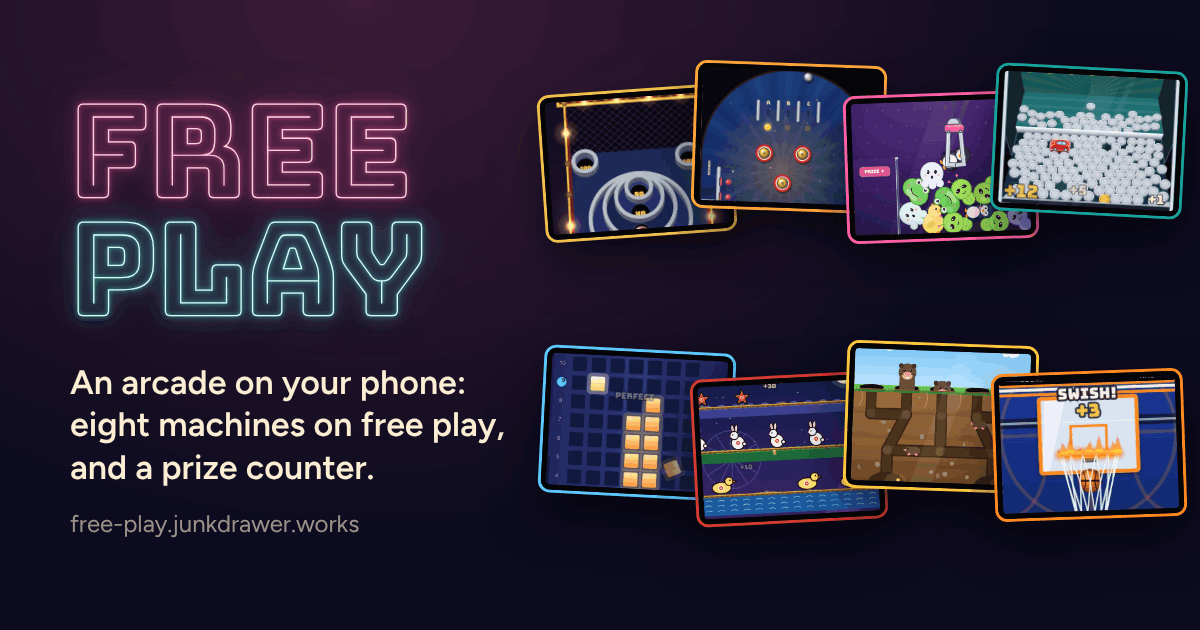
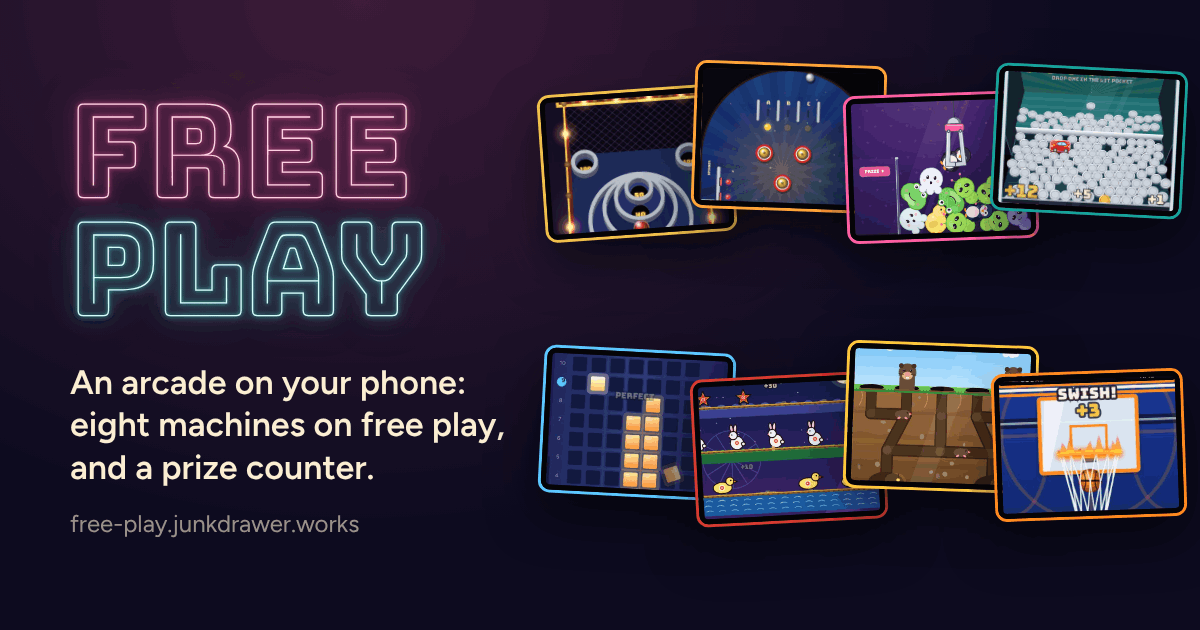
Topple and Clutch: the small things say so, and the chute keeps off the sign
Topple: a prize pushed off the side got a toast but no sound, a new
prize went on the shelf with no sound or word, and a prize won mid-cup
left no trace on the cup's card. A prize down the side now gets a lower,
heavier thud than a coin's; the attendant's new prize a small bell and a
line read out; and the cup keeps what it won (a new field on the saved
cup, read as none from an older save), so its card says "And a toy car
for your shelf." under the heading, with the prize. The chute rode over
the back wall's "DROP ONE IN THE LIT POCKET" at most aims, so the sign
now sits under the pockets. Clutch: a go that caught nothing, with
nothing slipping, now says "Nothing that time." and plays a quiet
falling two-note; the line read out is cleared first, so a second "It
slipped." is read again; and three plush at once say three. Nothing
here changes what a machine pays or how hard it is. The browser tests
check the card's prize, the saved cup, the sign clear of the chute at
every aim, and Clutch's empty go, repeated words and three at once.
Topple's pictures and the link preview are redrawn for the sign.

Claude-Session: https://claude.ai/code/session_01RkvUFhzoaPZyofz3pSrJ5i

diff --git a/topple/js/app.js b/topple/js/app.js
@@ -26,8 +26,10 @@ function load() {
   let s = null;
   try { s = JSON.parse(localStorage.getItem(KEY)); } catch { /* none yet, or storage is off */ }
   s = s && typeof s === 'object' ? s : {};
-  // a cup still being played, or one whose last coin went down just before leaving (finished when it comes back)
-  const cup = s.cup && Number.isInteger(s.cup.left) && s.cup.left >= 0 && s.cup.left <= CUP ? { left: s.cup.left, won: Math.max(0, Math.floor(s.cup.won) || 0) } : null;
+  // a cup still being played, or one whose last coin went down just before leaving (finished when it comes back), with
+  // the prizes it's pushed off (a cup saved before it kept them has none)
+  const prizes = Array.isArray(s.cup?.prizes) ? s.cup.prizes.filter(k => TRINKETS.some(t => t.kind === k)) : [];
+  const cup = s.cup && Number.isInteger(s.cup.left) && s.cup.left >= 0 && s.cup.left <= CUP ? { left: s.cup.left, won: Math.max(0, Math.floor(s.cup.won) || 0), prizes } : null;
   s = { best: 0, cups: 0, sound: true, ...s, cup };
   for (const k of ['best', 'cups', 'prizes']) if (k in s) s[k] = Number.isFinite(+s[k]) ? +s[k] : 0; // a hand-edited or broken number
   return s;
@@ -77,9 +79,9 @@ layout();
 if (document.fonts) Promise.all([document.fonts.load('400 20px Bungee'), document.fonts.load('600 15px Figtree')]).then(() => draw.repaint()).catch(() => {});
 
 // ---------- the cup, and dropping coins ----------
-let cup = saved.cup;     // { left, won }: the coins still in it and the tickets this cup has won, or null between cups
+let cup = saved.cup;     // { left, won, prizes }: the coins still in it, the tickets and the prizes (kinds) this cup has won, or null between cups
 // The cup just finished, while its card is up: coins that still go over count for it, on the card and towards the
-// best cup, until Another cup. { won, before: the best cup before it, first: whether it was the first cup }
+// best cup, until Another cup. { won, prizes, before: the best cup before it, first: whether it was the first cup }
 let done = null;
 let aim = DECK.W / 2;    // where the chute is, mm across
 let paused = false, timeScale = 1, lastDrop = 0, lastFall = 0, ended = false;
@@ -139,7 +141,7 @@ function happened() {
   for (const f of machine.takeFalls()) {
     lastFall = performance.now();
     if (f.edge === 'side') {
-      if (f.kind === 'prize') { toast(`The ${trinket(f.prize).name.toLowerCase()} went down the side. There'll be another one on in a moment.`); restockSoon(); }
+      if (f.kind === 'prize') { sound.gone(); toast(`The ${trinket(f.prize).name.toLowerCase()} went down the side. There'll be another one on in a moment.`); restockSoon(); }
       else sound.lost();
       continue;
     }
@@ -147,6 +149,9 @@ function happened() {
       const t = trinket(f.prize);
       wallet.give(t);
       saved.prizes = (saved.prizes || 0) + 1;
+      // the cup's card says so too (once it's up, a prize the pile still pushes over goes on it as well)
+      if (cup) cup.prizes.push(f.prize);
+      else if (done) { done.prizes.push(f.prize); showDone(); }
       sound.prize();
       toast(`You won ${t.say}! It's on your shelf.`);
       say(`You won ${t.say}.`);
@@ -170,7 +175,11 @@ function happened() {
 let restockTimer = 0;
 function restockSoon() {
   clearTimeout(restockTimer);
-  restockTimer = setTimeout(() => machine.restock(nextPrize()), 1500);
+  restockTimer = setTimeout(() => {
+    const had = machine.pieces.some(p => p.kind === 'prize');
+    machine.restock(nextPrize());
+    if (!had && machine.pieces.some(p => p.kind === 'prize')) { sound.restock(); say('Another prize is on the shelf.'); }
+  }, 1500);
 }
 
 function say(text) { $('live').textContent = text; }
@@ -188,7 +197,7 @@ let feeding = () => {};
 $('payout').innerHTML = PAYOUT;
 function endCup() {
   ended = true;
-  done = { won: cup.won, before: saved.best || 0, first: !saved.cups };
+  done = { won: cup.won, prizes: cup.prizes, before: saved.best || 0, first: !saved.cups };
   saved.cups = (saved.cups || 0) + 1;
   cup = null;
   showDone();
@@ -209,9 +218,27 @@ function showDone() {
   if (won > (saved.best || 0)) saved.best = won;
   save();
   $('overT').textContent = `${CUP} coins, ${fmt(won)} ${won === 1 ? 'ticket' : 'tickets'}`;
+  wonPrizes(done.prizes);
   bestLine($('overBest'), newBest() && ['A new best cup!', `The old one was ${fmt(before)} ${before === 1 ? 'ticket' : 'tickets'}.`], `Best cup: ${fmt(saved.best)} tickets`);
   hud();
 }
+// The prizes a cup pushed off, under its card's heading: 'And a toy car and a lucky keyring for your shelf.'
+const NUMBER = ['', 'a', 'two', 'three', 'four', 'five', 'six'];
+const plural = name => name + (/(ch|sh|s|x)$/.test(name) ? 'es' : 's');
+function wonPrizes(kinds) {
+  const el = $('overPrize');
+  el.hidden = !kinds.length;
+  if (!kinds.length) return;
+  const counts = new Map();
+  for (const k of kinds) counts.set(k, (counts.get(k) || 0) + 1);
+  const said = [...counts].map(([k, n]) => (n === 1 ? trinket(k).say : `${NUMBER[n] || n} ${plural(trinket(k).name.toLowerCase())}`));
+  const list = said.length > 1 ? `${said.slice(0, -1).join(', ')} and ${said.at(-1)}` : said[0];
+  const pics = document.createElement('span');
+  pics.className = 'e'; pics.setAttribute('aria-hidden', 'true');
+  pics.textContent = kinds.map(k => trinket(k).emoji).join('');
+  el.replaceChildren(`And ${list} for your shelf.`, pics);
+}
+
 // A new best cup rings out once its tickets are out (or a late coin makes it one), and the sign's bulbs blaze: once a cup.
 function cheer() {
   if (!done || done.cheered || !newBest()) return;
@@ -241,7 +268,7 @@ function start() {
   $('over').hidden = true;
   feeding();
   done = null;
-  if (!cup) { cup = { left: CUP, won: 0 }; ended = false; }
+  if (!cup) { cup = { left: CUP, won: 0, prizes: [] }; ended = false; }
   hud();
   save();
 }

diff --git a/topple/js/draw.js b/topple/js/draw.js
@@ -8,6 +8,7 @@ import { DECK, PUSHER, COIN, CHUTE, POCKETS, PRIZE } from './machine.js';
 const WALL_TOP = 168;                         // how high the back and side walls go, mm
 const POCKET = { y: 96, r: 13 };              // the bonus pockets along the back wall
 const RAIL = 148;                             // the chute's rail
+const SIGN = POCKET.y - 33;                   // the back wall's sign, under the pockets (the chute rides over them)
 // The camera: above and in front of the machine, looking down at the middle of the deck.
 const EYE = { x: DECK.W / 2, y: 470, z: 480 }, AT = { y: 0, z: 118 };
 const F = (() => { const dy = AT.y - EYE.y, dz = AT.z - EYE.z, n = Math.hypot(dy, dz); return { y: dy / n, z: dz / n }; })();
@@ -123,13 +124,13 @@ export function createDraw(canvas) {
       c.beginPath(); c.moveTo(sun.x, sun.y); c.lineTo(sun.x + Math.cos(a0) * L, sun.y + Math.sin(a0) * L); c.lineTo(sun.x + Math.cos(a1) * L, sun.y + Math.sin(a1) * L); c.fill();
     }
     c.restore();
-    // the pockets, dark (their lights are lit each frame), and a label over them
+    // the pockets, dark (their lights are lit each frame), and a sign under them
     for (let i = 0; i < POCKETS; i++) {
       const p = at(((i + 0.5) / POCKETS) * DECK.W, POCKET.y, 0);
       c.fillStyle = C.chrome; c.beginPath(); c.ellipse(p.x, p.y, (POCKET.r + 3) * p.s, (POCKET.r + 3) * p.s, 0, 0, Math.PI * 2); c.fill();
       c.fillStyle = '#04090c'; c.beginPath(); c.ellipse(p.x, p.y, POCKET.r * p.s, POCKET.r * p.s, 0, 0, Math.PI * 2); c.fill();
     }
-    const lab = at(DECK.W / 2, POCKET.y + 26, 0);
+    const lab = at(DECK.W / 2, SIGN, 0);
     c.font = `400 ${11 * lab.s}px Bungee, Impact, sans-serif`; c.fillStyle = 'rgba(251, 238, 210, .55)';
     c.fillText('DROP ONE IN THE LIT POCKET', lab.x, lab.y);
     quad(c, [[0, RAIL - 3, 4], [DECK.W, RAIL - 3, 4], [DECK.W, RAIL + 3, 4], [0, RAIL + 3, 4]]);
@@ -320,5 +321,18 @@ export function createDraw(canvas) {
     for (let j = 0; j <= n; j++) { bulb(r.x + inset + j * step, r.y + inset - 1); bulb(r.x + inset + j * step, r.y + r.h - inset + 1); }
   }
 
-  return { resize, repaint, frame, cabinet, railX, at };
+  // Where the back wall's sign is, and the chute's carriage (with a coin in it) at an aim, on the page: for the tests.
+  function sign() {
+    const lab = at(DECK.W / 2, SIGN, 0);
+    ctx.font = `400 ${11 * lab.s}px Bungee, Impact, sans-serif`;
+    const w = ctx.measureText('DROP ONE IN THE LIT POCKET').width, h = 11 * lab.s;
+    return { x: lab.x - w / 2, y: lab.y - h / 2, w, h };
+  }
+  function chute(aim) {
+    const ch = at(aim, RAIL, 6), coin = at(aim, RAIL + 4 + COIN.r, 6);
+    const top = Math.min(ch.y - 9 * ch.s, coin.y);
+    return { x: ch.x - 17 * ch.s, y: top, w: 34 * ch.s, h: ch.y + 15 * ch.s - top };
+  }
+
+  return { resize, repaint, frame, cabinet, railX, at, sign, chute };
 }

diff --git a/clutch/js/app.js b/clutch/js/app.js
@@ -116,18 +116,26 @@ addEventListener('keyup', e => { if (HOLD_KEYS.includes(e.key)) release(); });
 
 // ---------- a go ----------
 let door = null, glow = 0;
+let go = null;           // the go under way, once the claw drops: { slipped }
 const wins = [];
 function happened() {
+  let ready = false;
   for (const e of machine.take()) {
     if (e === 'start') armed = false;
-    else if (e === 'drop') { aim = null; saved.goes++; save(); } // a go once the claw drops: a tap isn't one
+    else if (e === 'drop') { aim = null; saved.goes++; save(); go = { slipped: false }; } // a go once the claw drops: a tap isn't one
     else if (e === 'short') { aim = null; nudge(); }
     else if (e === 'close') sound.close();
     else if (e === 'release') sound.open();
-    else if (e === 'slip') { sound.slip(); say('It slipped.'); }
-    else if (e === 'ready' && wins.length) showWin();
+    else if (e === 'slip') { sound.slip(); say('It slipped.'); if (go) go.slipped = true; }
+    else if (e === 'ready') ready = true;
   }
   for (const w of machine.takeWon()) won(w);
+  // the claw's home: what came out of the door, or (nothing caught, nothing slipped) a word that nothing did
+  if (ready) {
+    if (wins.length) showWin();
+    else if (go && !go.slipped) { sound.nothing(); say('Nothing that time.'); }
+    go = null;
+  }
 }
 
 function won(w) {
@@ -162,7 +170,7 @@ function showWin() {
   $('winT').textContent = `You got ${names.length > 1 ? `${names.slice(0, -1).join(', ')} and ${names.at(-1)}` : names[0]}.`;
   $('winHow').textContent = got.some(w => w.kind === 'star')
     ? "The lucky star! They don't come along often. It's on your shelf now."
-    : got.length > 1 ? "Two at once! They're on your shelf now, with your prizes." : "It's on your shelf now, with your prizes.";
+    : got.length > 1 ? `${['', '', 'Two', 'Three', 'Four', 'Five'][got.length] || got.length} at once! They're on your shelf now, with your prizes.` : "It's on your shelf now, with your prizes.";
   const art = $('winArt'), r = Math.min(2, devicePixelRatio || 1);
   art.width = 220 * r; art.height = 170 * r;
   const c = art.getContext('2d');
@@ -182,7 +190,14 @@ function closeWin() {
 $('more').addEventListener('click', closeWin);
 $('winShelf').addEventListener('click', () => { closeWin(); openPrizes(); });
 
-function say(text) { $('live').textContent = text; }
+// What's read out: cleared first, and the words put back a moment later, so the same words again ('It slipped.') are
+// read again.
+let saying = 0;
+function say(text) {
+  $('live').textContent = '';
+  clearTimeout(saying);
+  saying = setTimeout(() => { $('live').textContent = text; }, 60);
+}
 
 // ---------- the scoreboard ----------
 function hud(bump = false) {

diff --git a/topple/css/topple.css b/topple/css/topple.css
@@ -132,6 +132,10 @@ svg { width: 1.3em; height: .9em; flex: none; }
 .lede { margin: 0 0 8px; font-weight: 600; text-wrap: balance; }
 .how { margin: 0 0 14px; font-size: 14px; color: var(--ink2); }
 .best { margin: 12px 0 0; font-size: 13px; color: var(--ink3); min-height: 1em; }
+/* the prizes a cup pushed off, under its card's heading */
+.won-prize { margin: -4px 0 10px; font-weight: 600; color: var(--ink); text-wrap: balance; }
+.won-prize[hidden] { display: none; }
+.won-prize .e { margin-left: 8px; font: 24px/1 "Apple Color Emoji", "Segoe UI Emoji", "Noto Color Emoji", sans-serif; vertical-align: -3px; letter-spacing: 2px; }
 .row { display: flex; gap: 10px; justify-content: center; flex-wrap: wrap; }
 .col { display: grid; gap: 8px; margin-bottom: 14px; }
 .big, .plain {

diff --git a/topple/js/sound.js b/topple/js/sound.js
@@ -133,6 +133,18 @@ export function lost() {
   if (!ac || !enabled) return;
   tone('sine', 420, 180, 0.05, 0.25);
 }
+// A prize down the side, card and all: a lower, heavier thud than a coin's.
+export function gone() {
+  if (!ac || !enabled) return;
+  tone('sine', 220, 70, 0.3, 0.32);
+  tone('triangle', 660, 330, 0.22, 0.2);
+  burst('bandpass', 1000, 1.2, 0.6, 0.05);
+}
+// The attendant putting a new prize on the shelf: a small bell.
+export function restock() {
+  if (!ac || !enabled) return;
+  bell(1568, 0, 0.065); bell(2093, 0.1, 0.05);
+}
 
 // The lights chasing along the pockets, and stopping on one.
 export function chase() {

diff --git a/clutch/js/sound.js b/clutch/js/sound.js
@@ -135,6 +135,12 @@ export function slip() {
   burst('lowpass', 500, 0.7, 0.25, 0.12, 0.32);
 }
 
+// A go that came back with nothing: a quiet falling two-note.
+export function nothing() {
+  if (!ac || !enabled) return;
+  tone('triangle', 659, 659, 0.09, 0.22); tone('triangle', 494, 494, 0.09, 0.36, 0.17);
+}
+
 // Won: the plush thumps down the chute and into the door, and the machine plays its little tune.
 export function won(rare) {
   if (!ac || !enabled) return;

diff --git a/topple/index.html b/topple/index.html
@@ -65,6 +65,7 @@
 
   <section class="card" id="over" hidden>
     <h2 id="overT">The cup's empty</h2>
+    <p class="won-prize" id="overPrize" hidden></p>
     <div class="fp-payout" id="payout"></div>
     <p class="best" id="overBest"></p>
     <p class="how">The coins on the deck stay where they are for next time.</p>
